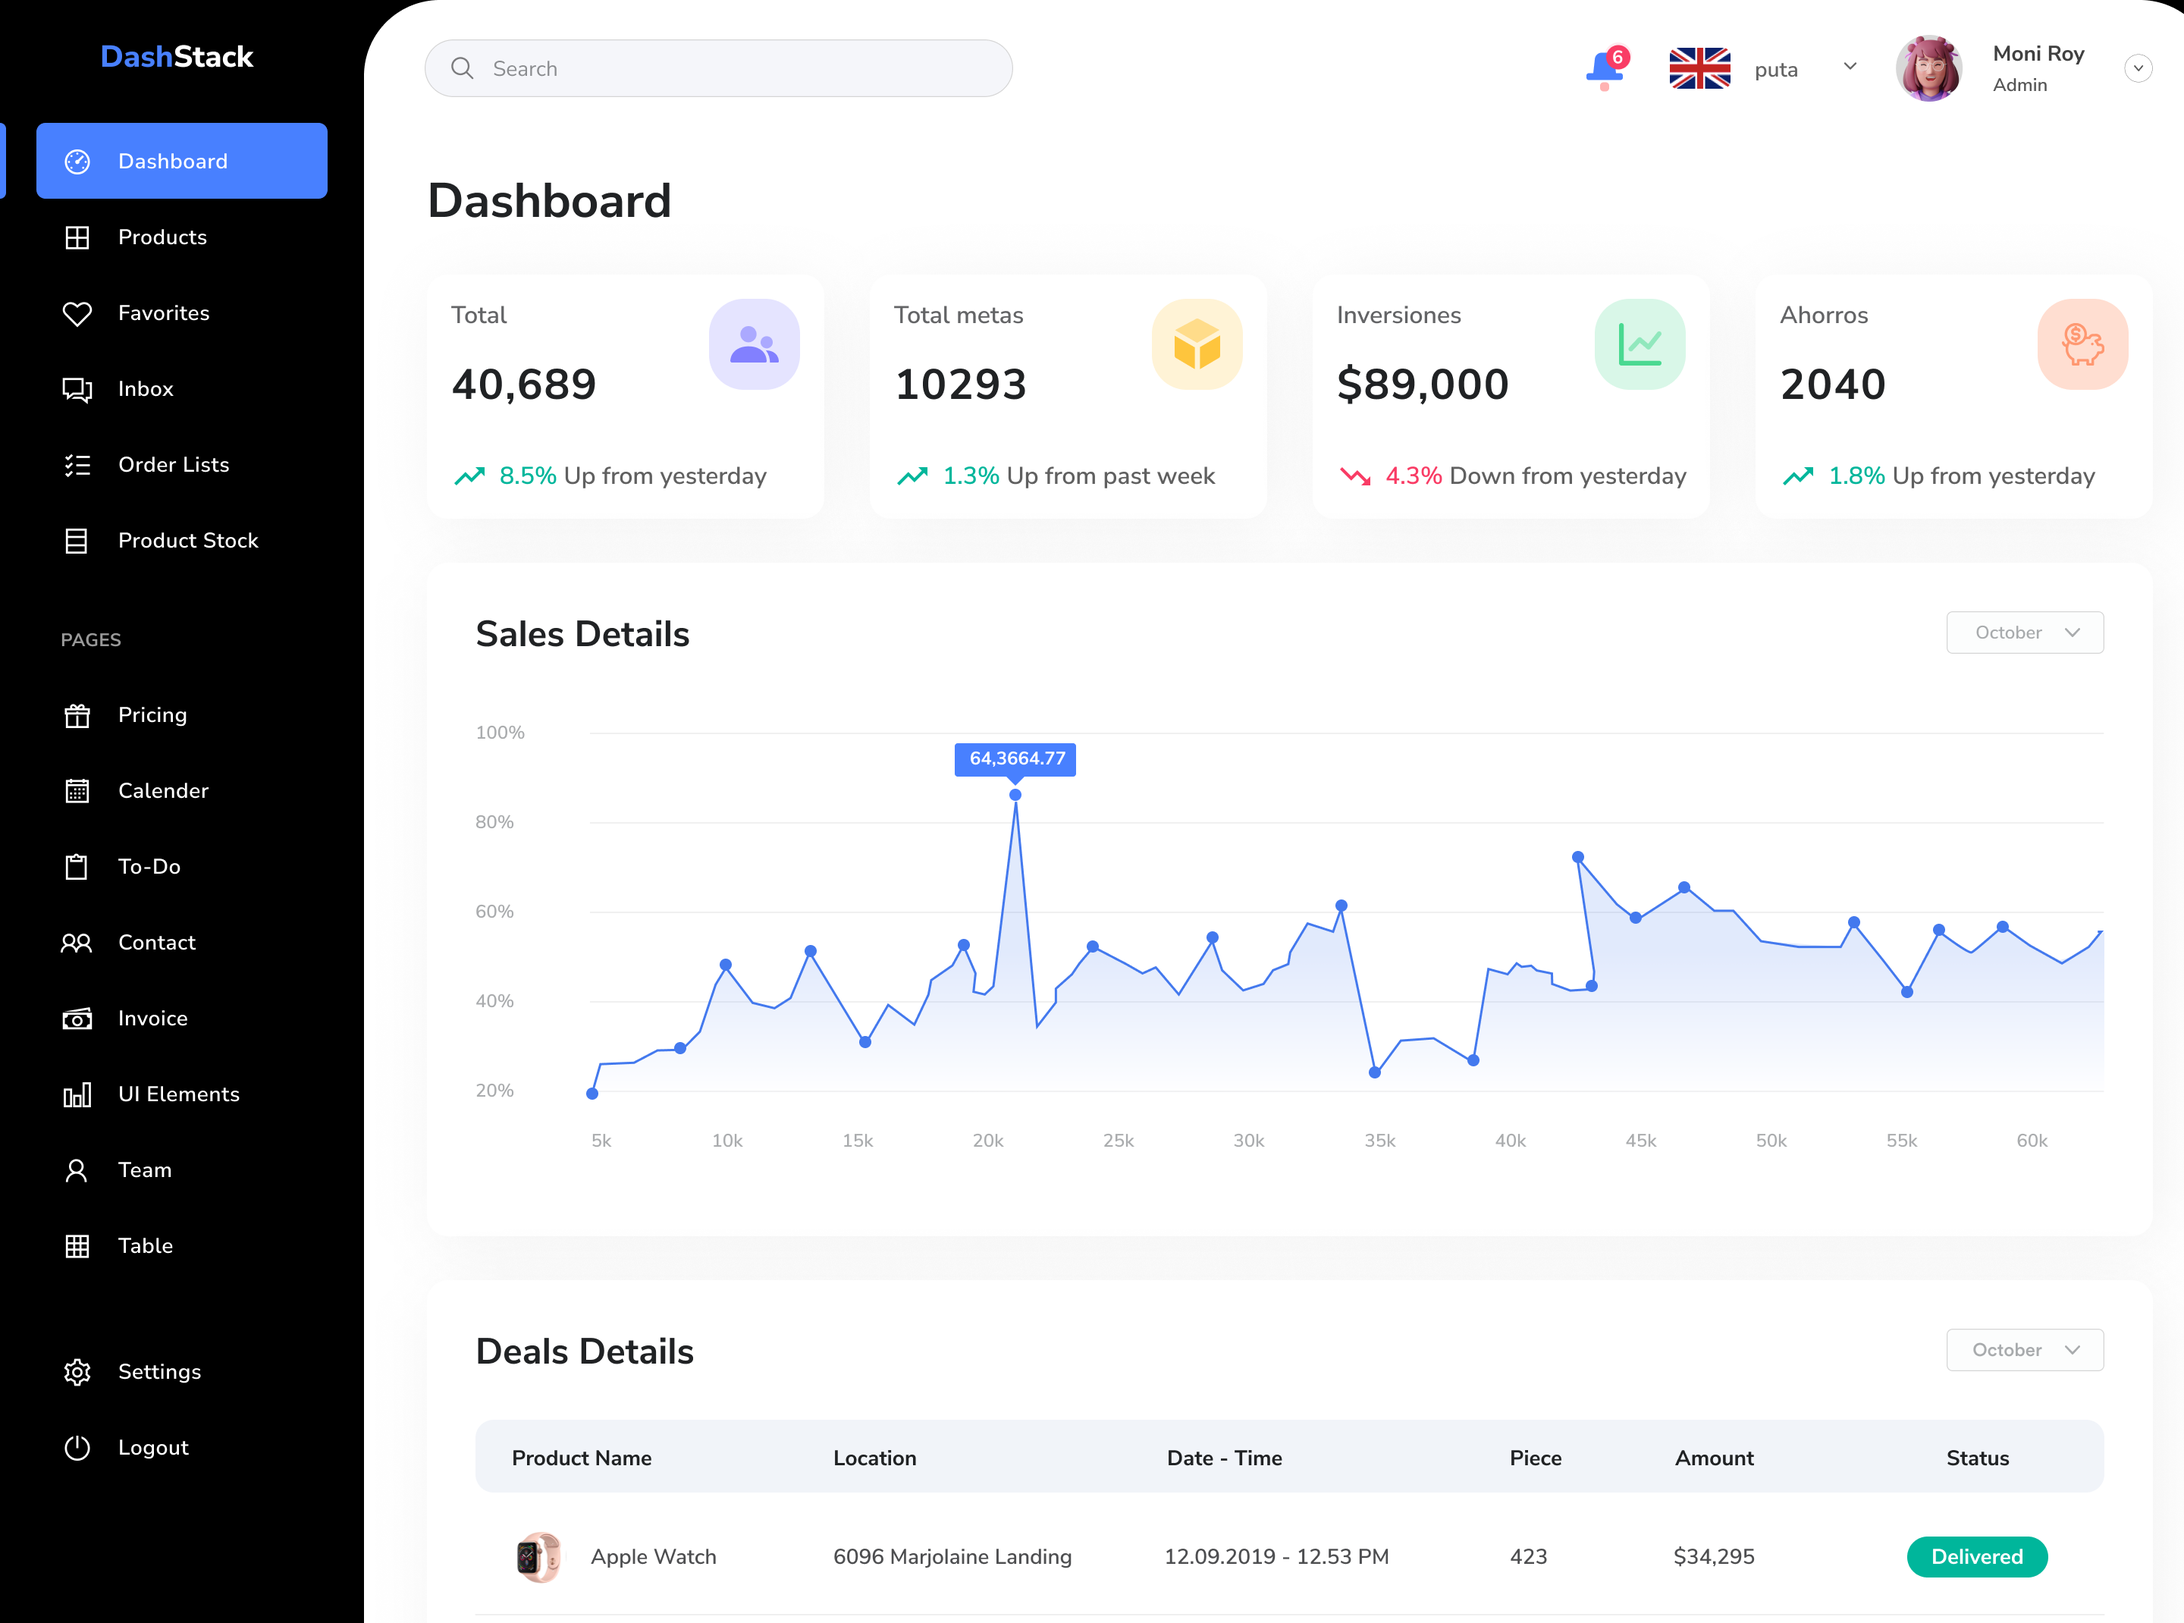
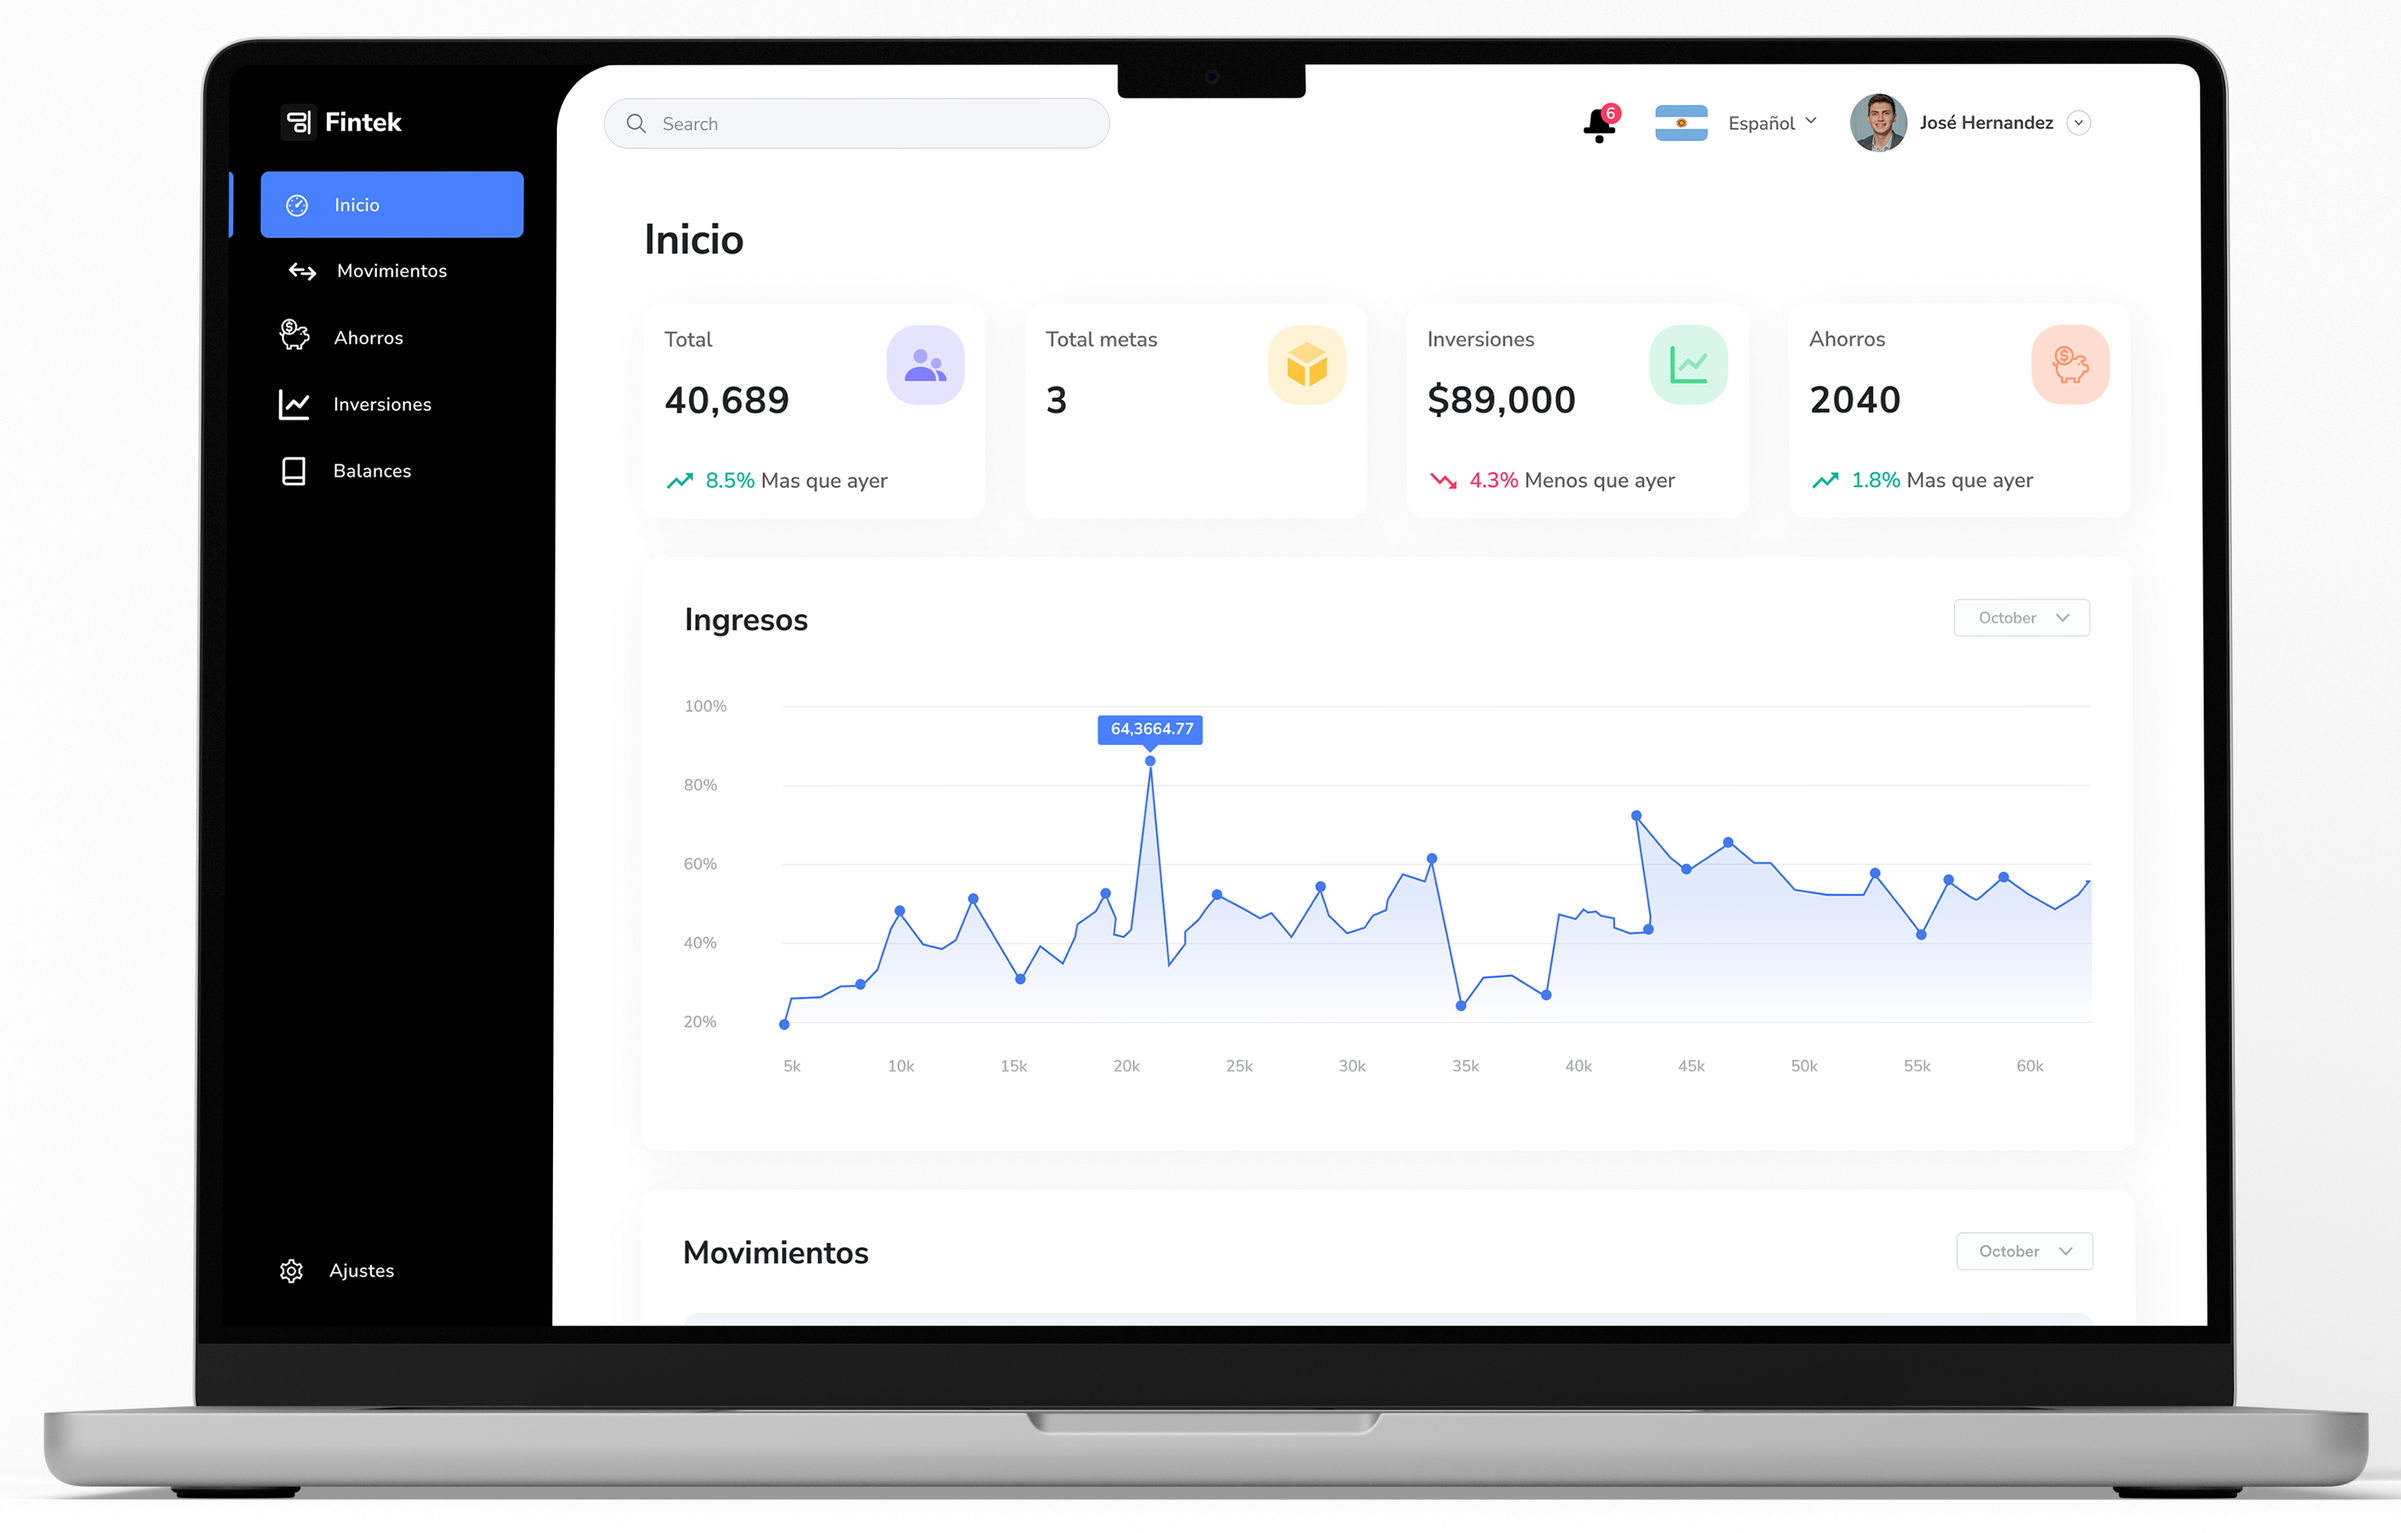
Agregado de mockups

diff --git a/src/components/sections/ProjectSection.tsx b/src/components/sections/ProjectSection.tsx
@@ -8,7 +8,7 @@ const ProjectSection = () => {
       <div className="container mx-auto px-4">
         <div className="text-center mb-16 animate-fade-in">
           <h2 className="text-3xl md:text-4xl font-bold text-gray-900 mb-4">El Proyecto FINTEK</h2>
-          <p className="text-xl text-gray-600 max-w-3xl mx-auto">
+          <p className="text-xl text-gray-400 max-w-3xl mx-auto">
             Una solución informática para administrar finanzas personales, desarrollada como parte de la materia 
             Práctica Profesionalizante II en la Tecnicatura Superior en Análisis y Desarrollo de Software.
           </p>
@@ -161,7 +161,7 @@ const ProjectSection = () => {
               <CardContent>
                 <div className="grid grid-cols-1 md:grid-cols-2 gap-6">
                   <div className="space-y-3">
-                    <h3 className="font-semibold text-indigo-800">Notebook</h3>
+                    <h3 className="font-semibold text-indigo-800"></h3>
                     <img 
                       src="assets/mockup2.png" 
                       alt="Diagrama de Clases" 
@@ -170,9 +170,9 @@ const ProjectSection = () => {
                   </div>
                   
                   <div className="space-y-3">
-                    <h3 className="font-semibold text-indigo-800">Casos de Uso</h3>
+                    <h3 className="font-semibold text-indigo-800"></h3>
                     <img 
-                      src="assets/c9a84763-be5c-4373-bb5a-dd497a7d2454.png" 
+                      src="assets/mockup.png" 
                       alt="Casos de Uso" 
                       className="rounded-lg shadow-md border border-gray-200 hover:shadow-xl transition-shadow duration-300"
                     />
@@ -188,18 +188,18 @@ const ProjectSection = () => {
                   </div>
                   
                   <div className="space-y-3">
-                    <h3 className="font-semibold text-indigo-800">Diagramas de Actividades</h3>
+                    <h3 className="font-semibold text-indigo-800"></h3>
                     <img 
-                      src="assets/3bf38640-56c9-4d14-9daf-8a91e1350e3a.png" 
+                      src="assets/iphonemockup.png" 
                       alt="Diagramas de Actividades" 
                       className="rounded-lg shadow-md border border-gray-200 hover:shadow-xl transition-shadow duration-300"
                     />
                   </div>
                   
                   <div className="space-y-3">
-                    <h3 className="font-semibold text-indigo-800">Diagrama de Componentes</h3>
+                    <h3 className="font-semibold text-indigo-800"></h3>
                     <img 
-                      src="assets/8469cb43-96b6-487d-95f6-1fa7d7961d6a.png" 
+                      src="assets/iphonemockup2.png" 
                       alt="Diagrama de Componentes" 
                       className="rounded-lg shadow-md border border-gray-200 hover:shadow-xl transition-shadow duration-300"
                     />
@@ -207,7 +207,7 @@ const ProjectSection = () => {
                 </div>
               </CardContent>
               <CardFooter className="flex justify-center">
-                <p className="text-sm text-gray-500">Los diagramas muestran la estructura y funcionamiento del sistema FINTEK</p>
+                <p className="text-sm text-gray-500"></p>
               </CardFooter>
             </Card>
           </TabsContent>

diff --git a/src/components/sections/HomeSection.tsx b/src/components/sections/HomeSection.tsx
@@ -42,7 +42,7 @@ const HomeSection = () => {
             <div className="relative">
               <div className="absolute -z-10 w-84 h-84 bg-blue-100 rounded-full blur-3xl opacity-70"></div>
               <img 
-                src="assets/Dashboard1.png" 
+                src="assets/mockup.png" 
                 alt="FINTEK Logo" 
                 className="relative rounded-lg hover:shadow-2xl z-10 w-md"
               />

diff --git a/tailwind.config.ts b/tailwind.config.ts
@@ -20,6 +20,8 @@ export default {
 		},
 		extend: {
 			colors: {
+				darkmodebody:'#191919',
+				darkmodecard: '#262626',
 				border: 'hsl(var(--border))',
 				input: 'hsl(var(--input))',
 				ring: 'hsl(var(--ring))',
